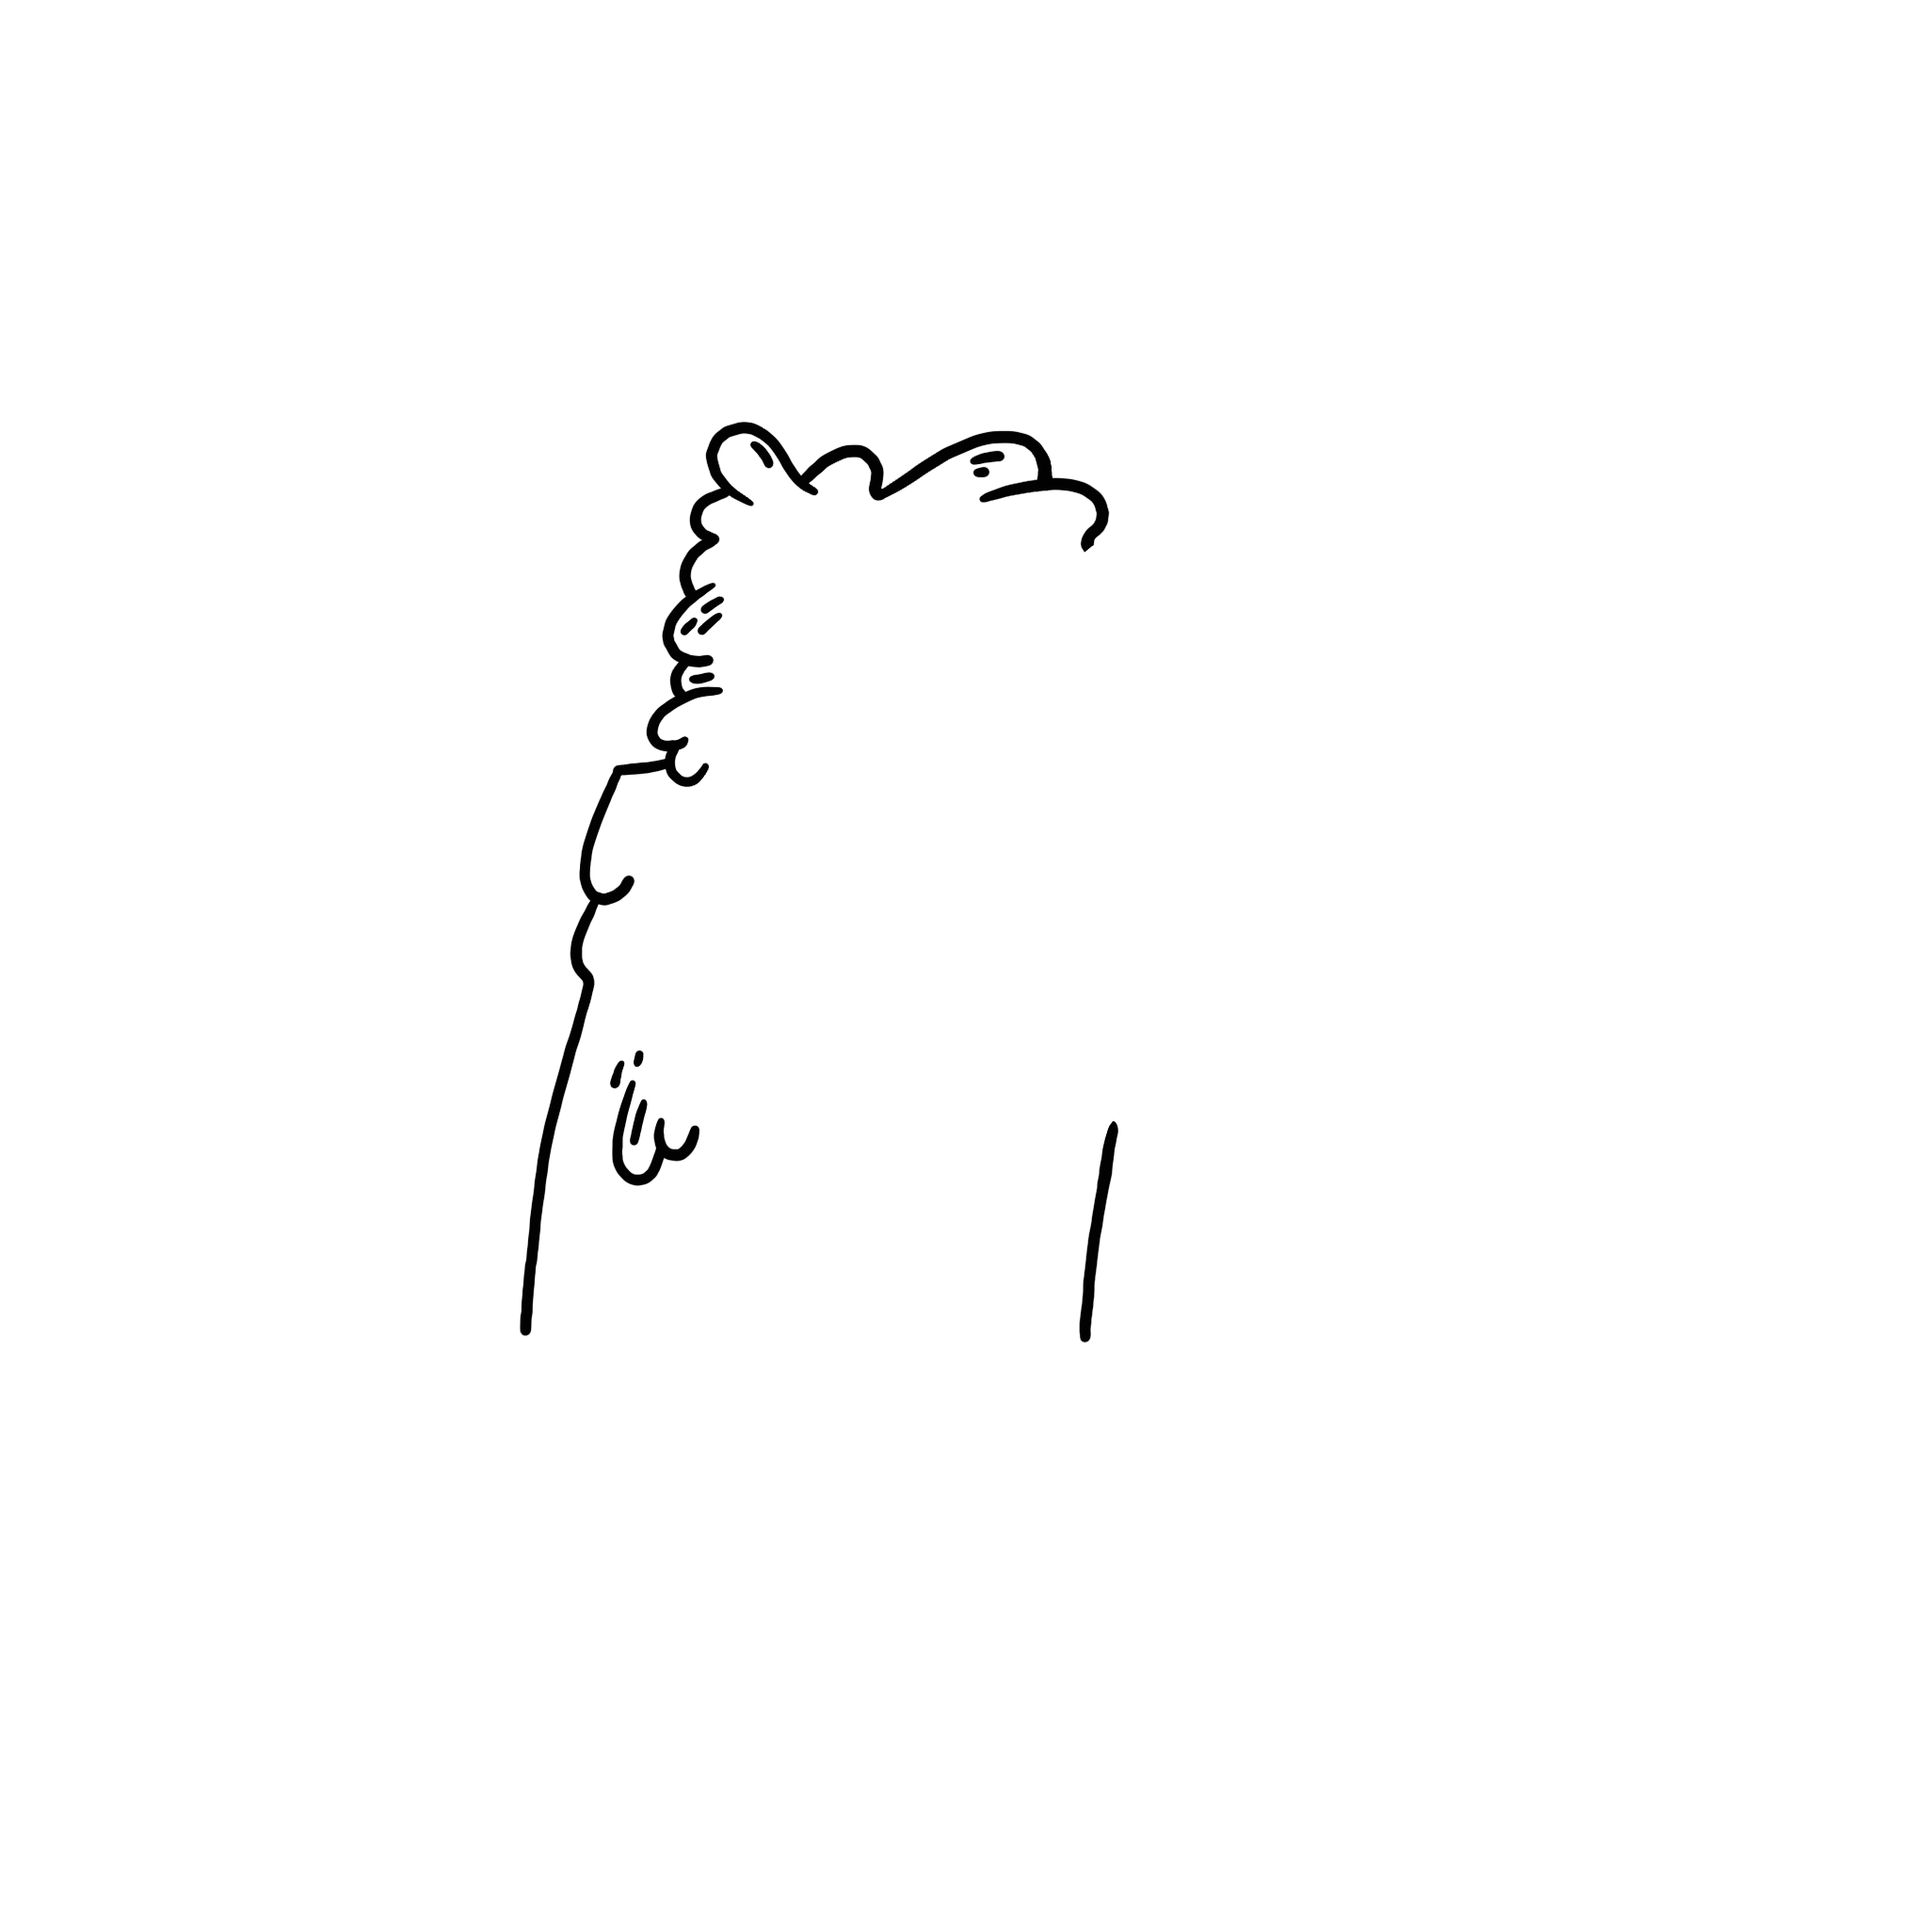
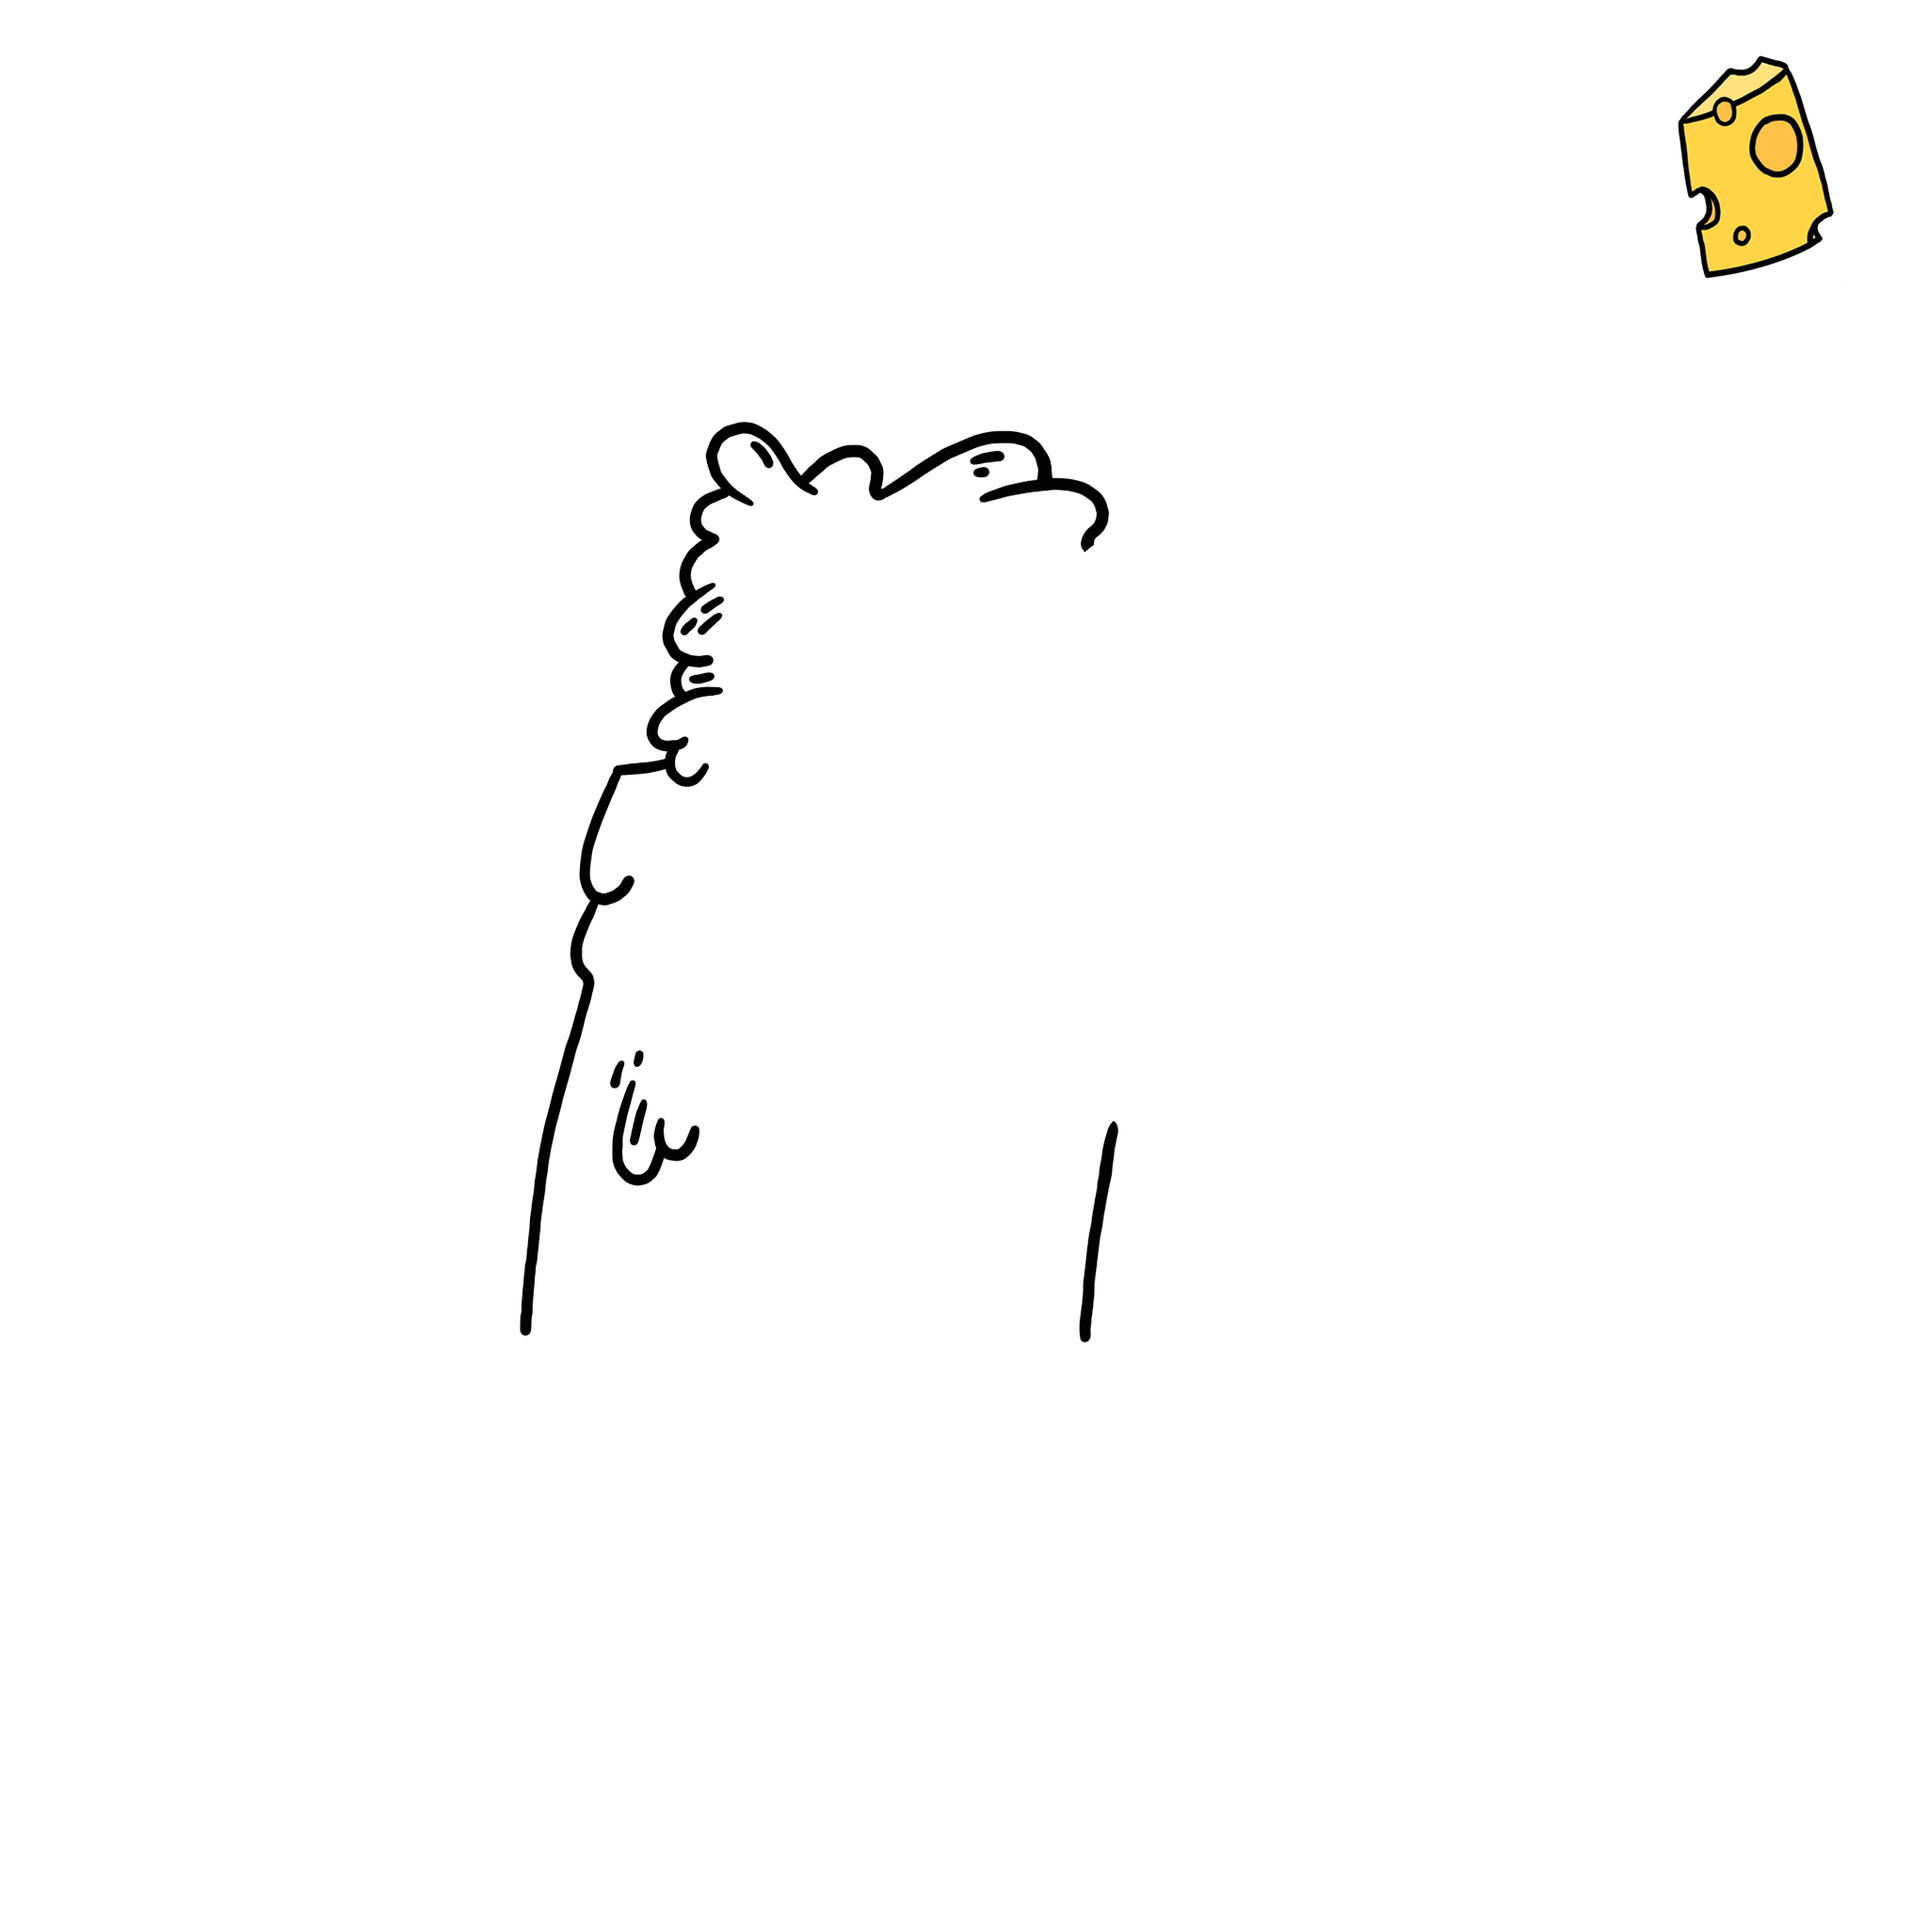
Update attributes in config, add cunning to the export, add cheese watermark for first 24 rats

Changed region(s): [[0.8438, 0.0312, 0.9688, 0.1562]]

diff --git a/looks.go b/looks.go
@@ -42,6 +42,7 @@ type Metadata struct {
 type FinalData struct {
 	Pieces map[string]string `json:"pieces"`
 	Rarity int `json:"rarity"`
+	Cunning int `json:"cunning"`
 	Cuteness int `json:"cuteness"`
 	Rattitude int `json:"rattitude"`
 }
@@ -61,7 +62,7 @@ func main() {
 	if os.IsNotExist(err) {
 		os.Mkdir(config.OutputDirectory, 0777)
 	}
-	
+
 	jobs := make(chan Job, int(config.OutputImageCount))
 
 	num_workers := config.MaxWorkers
@@ -69,7 +70,7 @@ func main() {
 	if num_workers == 0 {
 		num_workers = 3
 	}
-	
+
 	log.Printf("Spinning up %d workers", int(num_workers))
 	for w := 0; w < int(num_workers); w++ {
 		wg.Add(1)
@@ -121,6 +122,7 @@ func makeFile(jobs <-chan Job)  {
 			currMeta := metadata[j]
 			finalMeta.Pieces[currMeta.Type] = currMeta.Piece
 			finalMeta.Rarity += int(currMeta.Attributes["rarity"])
+			finalMeta.Cunning += int(currMeta.Attributes["cunning"])
 			finalMeta.Cuteness += int(currMeta.Attributes["cuteness"])
 			finalMeta.Rattitude += int(currMeta.Attributes["rattitude"])
 		}
